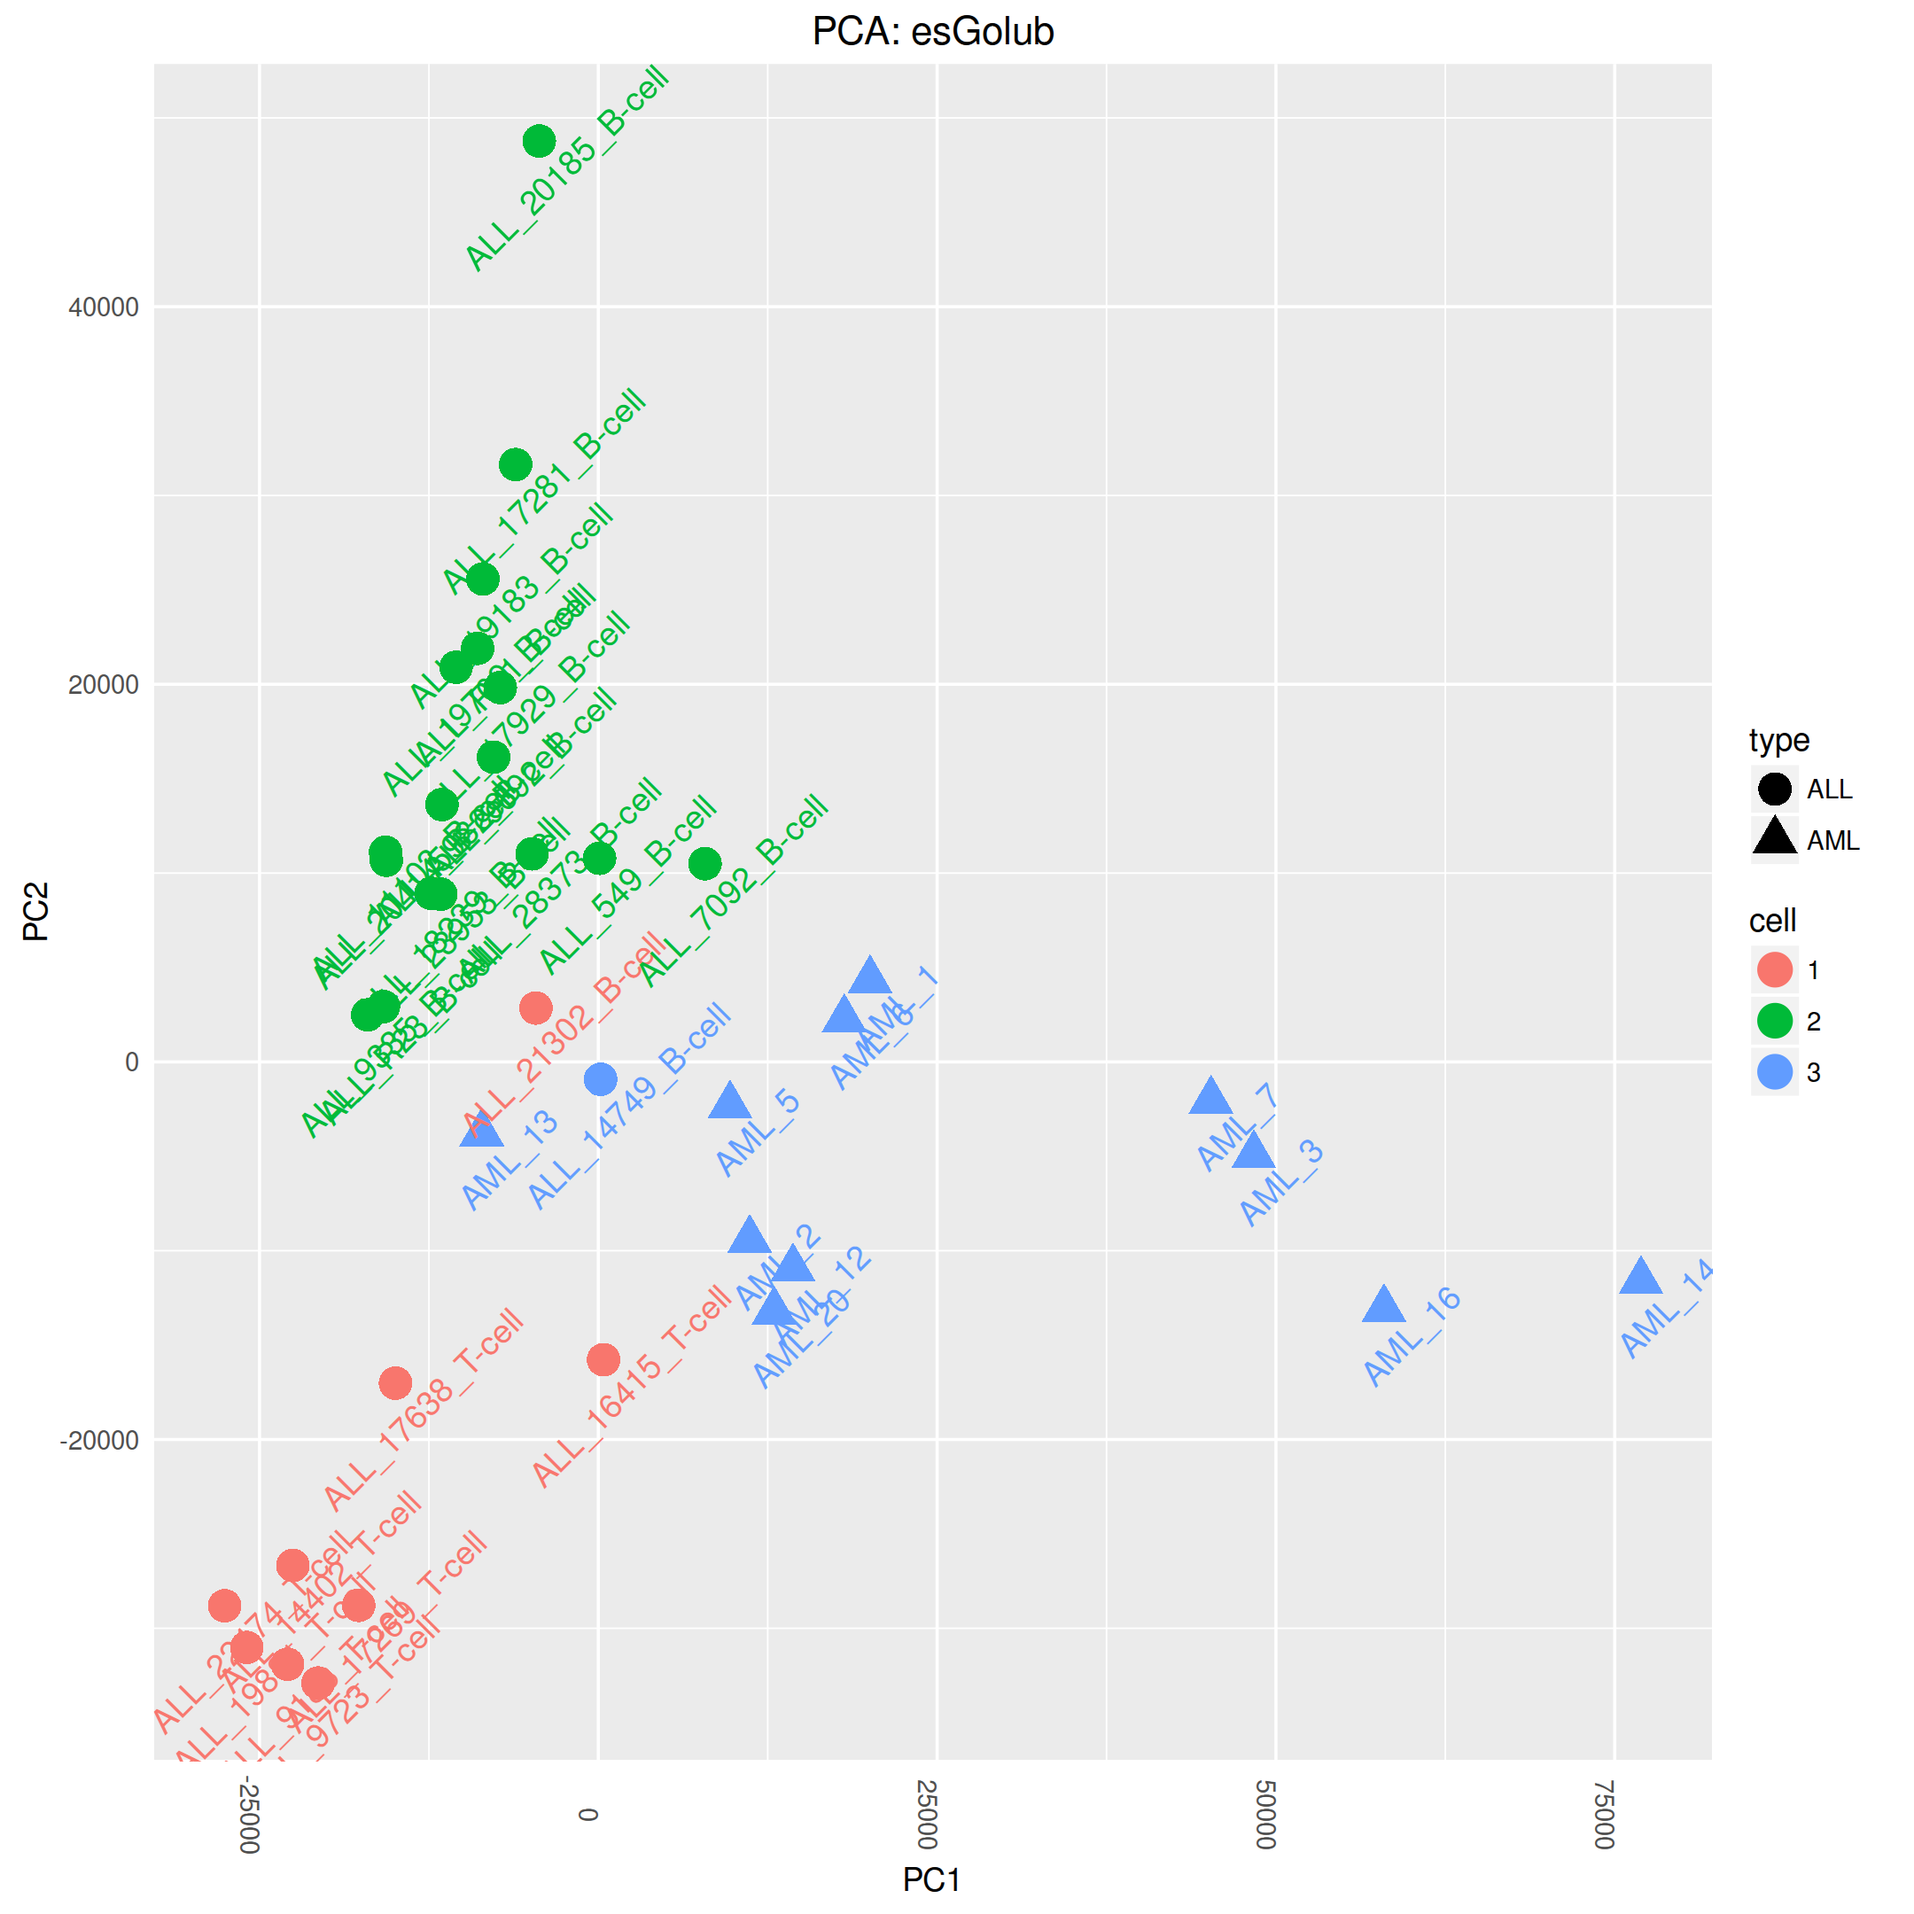
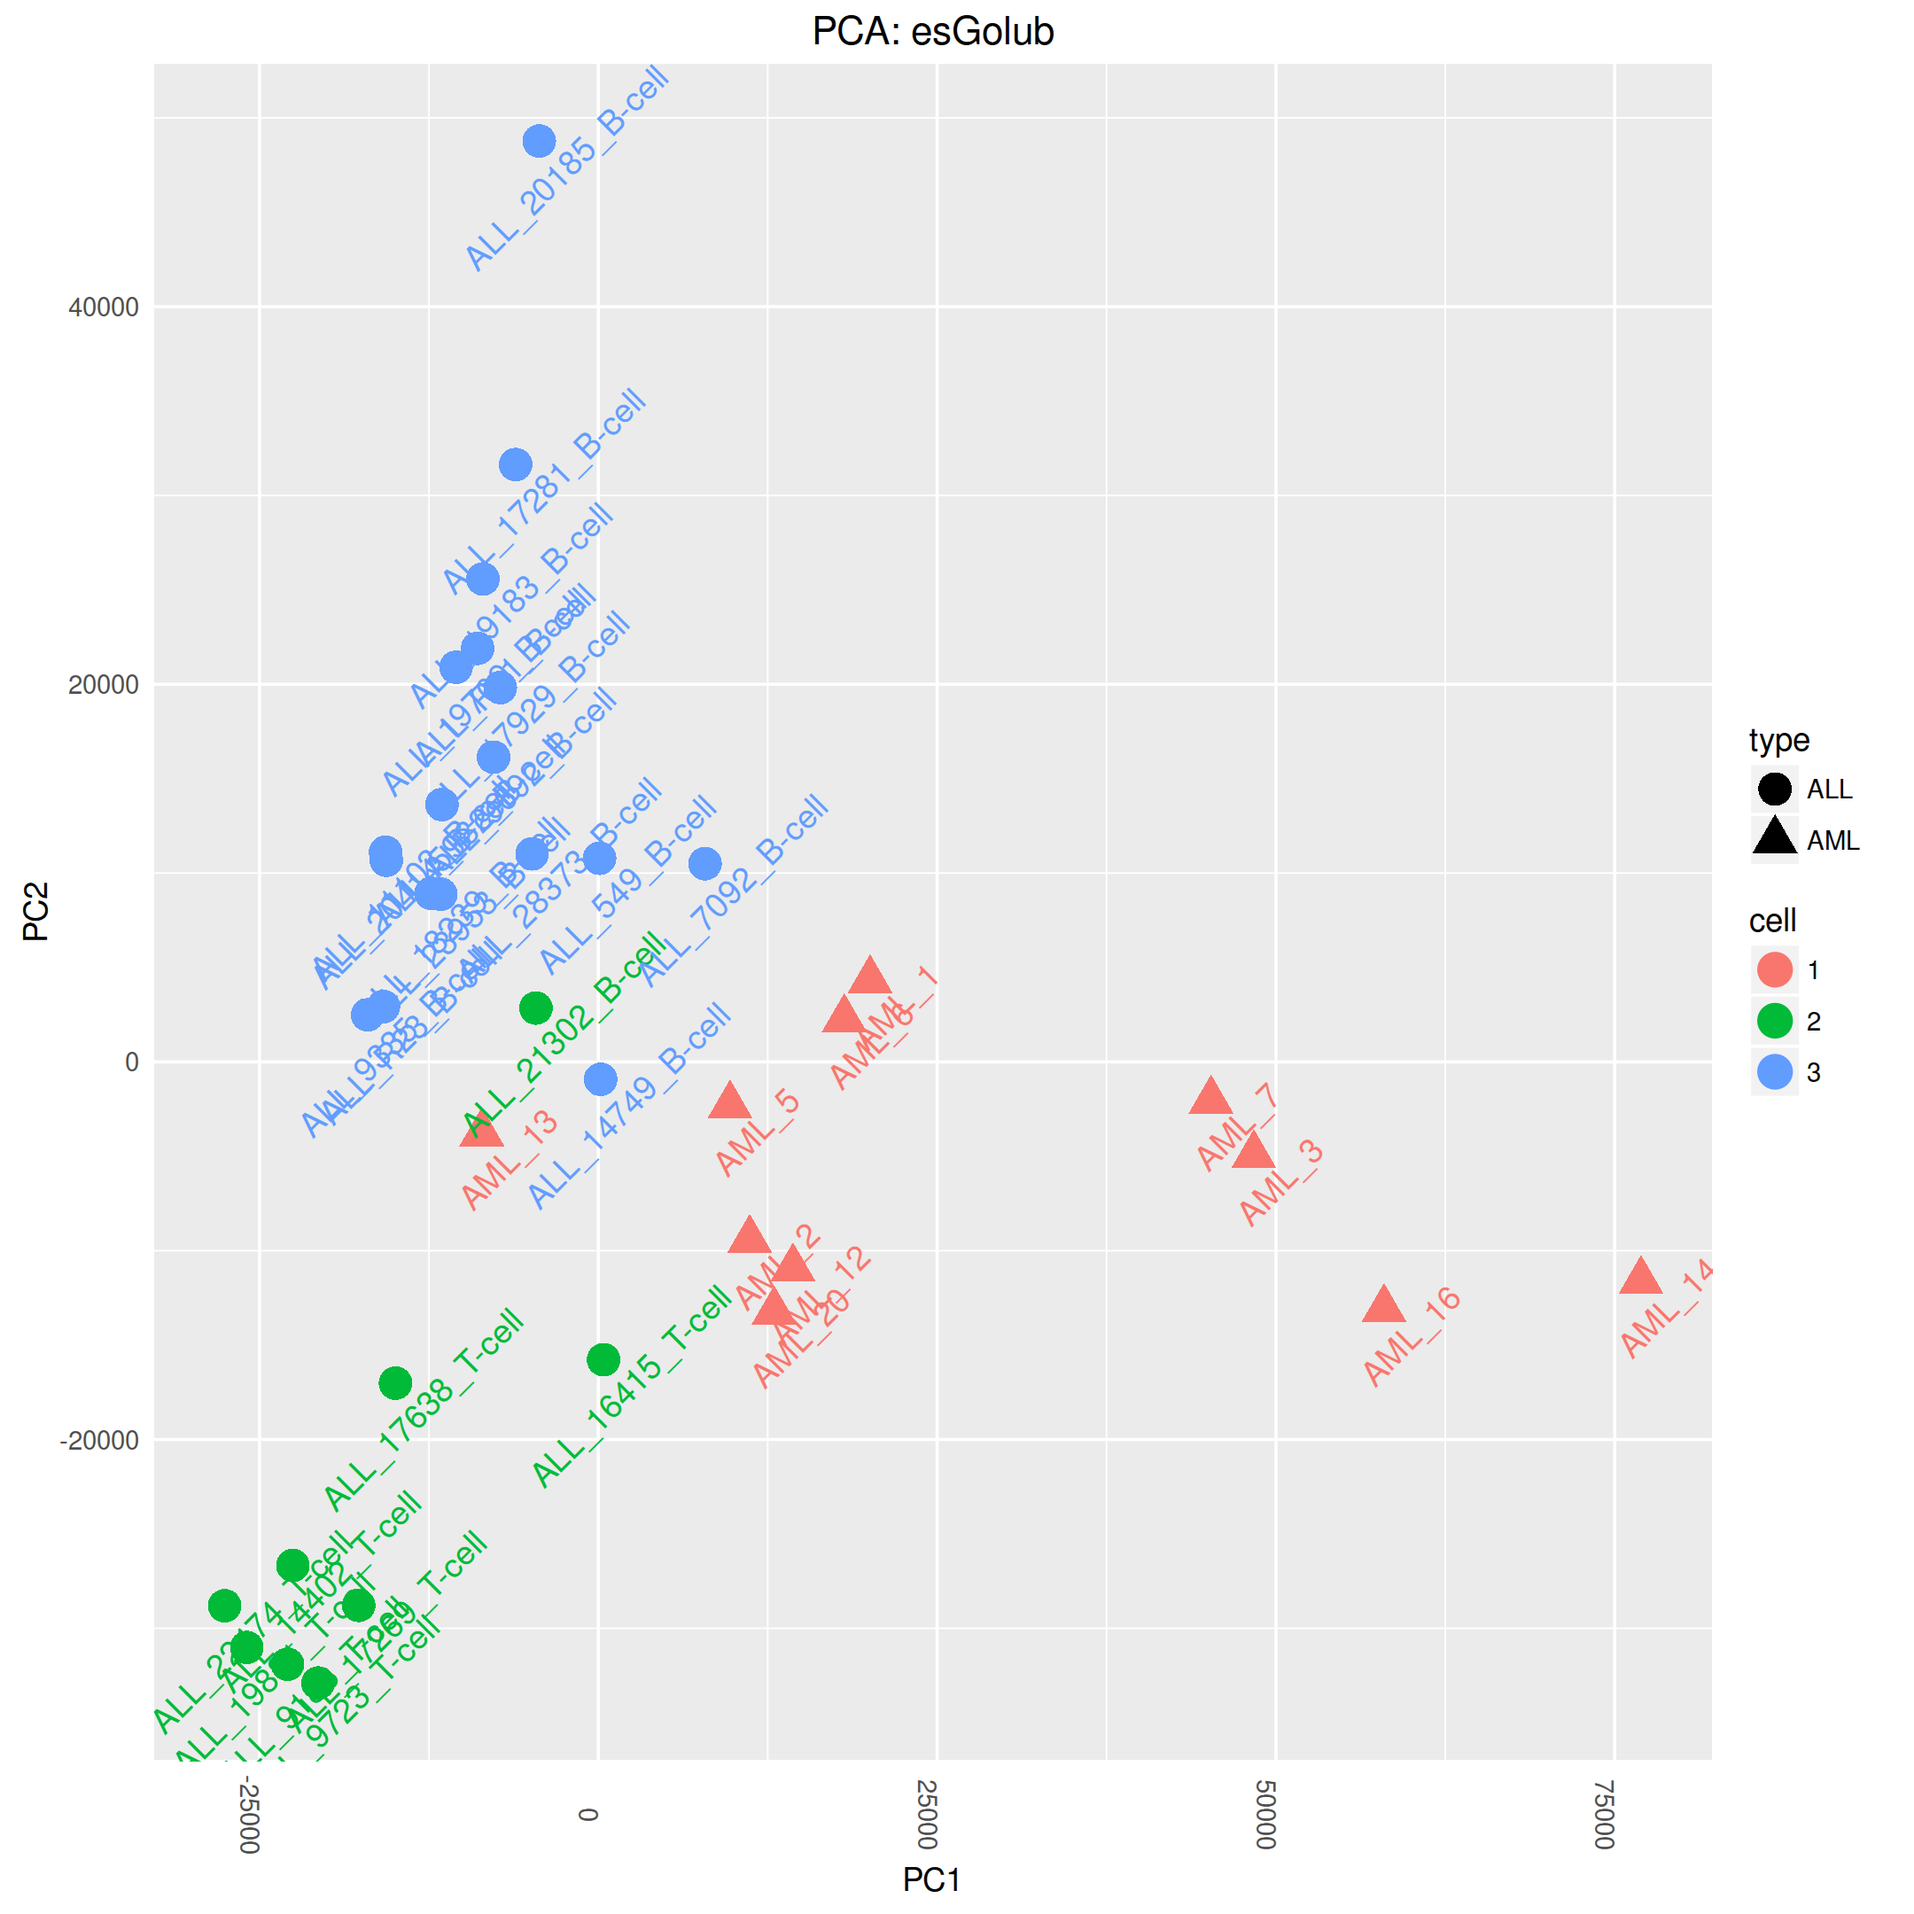
Progress save

diff --git a/07-linear-algebra-review-vii/README.md b/07-linear-algebra-review-vii/README.md
@@ -253,6 +253,8 @@ Further, to induce sparsity in *W* and *H*, thus helping to ensure a local parts
 <!-- \displaystyle \min_{W,H > 0} \big[ KL(V||WH) + \lambda \sum{H_{aj}}_{aj} \big] -->
 ![](img/kl_divergence_nmf_regularized.png)
 
+In this case, we are only imposing a penalty on the coefficents of *H*. We could just as easily penalize *W*, or both *H* and *W*.
+
 #### Estimating factorization rank
 
 For clustering applications, when *k* is not known in advance, their are methods for estimating the factorization rank (e.g. see section 2.6 of the `nmf` package vignette)
@@ -345,12 +347,19 @@ Note that the way the problem has been framed above, we are clustering *samples*
 
 #### Strengths and weaknesses of NMF
 
-Some of the advantages of NMF include:
+##### Strengths
 
 -   Wide range of applications (dimension reduction, latent variable detection, clustering, etc.)
 -   Ability to detect local parts-based representation of a dataset
 -   Straight-forward interpreation
 -   Allows for detection of correlated latent factors (compare with PCA which detects strictly orthogonal variables).
+-   Able to detect similarities between samples (in the context of expression data), even when the samples are only similar for subset of the genes.
+
+##### Limitations
+
+-   Greather algorithmic complexity and computational demands (compared with SVD)
+-   Stochastic (depends on choice of seeding)
+-   Not yet known how normalization should be used in the context of NMF.
 
 ### R package for NMF
 
@@ -482,13 +491,13 @@ result
     ##  # Details:
     ##   algorithm:  brunet 
     ##   seed:  random 
-    ##   RNG: 403L, 184L, ..., 1368417369L [e942dd792ce1d90fb182aa76a595f339]
+    ##   RNG: 403L, 198L, ..., -1693668582L [4d29980c11159d0623bf3188d07940c3]
     ##   distance metric:  'KL' 
-    ##   residuals:  13806625 
-    ##   Iterations: 520 
+    ##   residuals:  13807040 
+    ##   Iterations: 490 
     ##   Timing:
     ##      user  system elapsed 
-    ##     1.816   0.000   1.817
+    ##     1.690   0.000   1.689
 
 Use `fit()` to get the fitted model:
 
@@ -562,25 +571,25 @@ nmf_clusters
 ```
 
     ## ALL_19769_B-cell ALL_23953_B-cell ALL_28373_B-cell  ALL_9335_B-cell 
-    ##                2                2                2                2 
+    ##                3                3                3                3 
     ##  ALL_9692_B-cell ALL_14749_B-cell ALL_17281_B-cell ALL_19183_B-cell 
-    ##                2                3                2                2 
+    ##                3                3                3                3 
     ## ALL_20414_B-cell ALL_21302_B-cell   ALL_549_B-cell ALL_17929_B-cell 
-    ##                2                1                2                2 
+    ##                3                2                3                3 
     ## ALL_20185_B-cell ALL_11103_B-cell ALL_18239_B-cell  ALL_5982_B-cell 
-    ##                2                2                2                2 
+    ##                3                3                3                3 
     ##  ALL_7092_B-cell   ALL_R11_B-cell   ALL_R23_B-cell ALL_16415_T-cell 
-    ##                2                2                2                1 
+    ##                3                3                3                2 
     ## ALL_19881_T-cell  ALL_9186_T-cell  ALL_9723_T-cell ALL_17269_T-cell 
-    ##                1                1                1                1 
+    ##                2                2                2                2 
     ## ALL_14402_T-cell ALL_17638_T-cell ALL_22474_T-cell           AML_12 
-    ##                1                1                1                3 
+    ##                2                2                2                1 
     ##           AML_13           AML_14           AML_16           AML_20 
-    ##                3                3                3                3 
+    ##                1                1                1                1 
     ##            AML_1            AML_2            AML_3            AML_5 
-    ##                3                3                3                3 
+    ##                1                1                1                1 
     ##            AML_6            AML_7 
-    ##                3                3
+    ##                1                1
 
 To see how this compares with the PCA assignments, we can redo the PCA plot, but coloring samples according to their NMF clustering:
 
